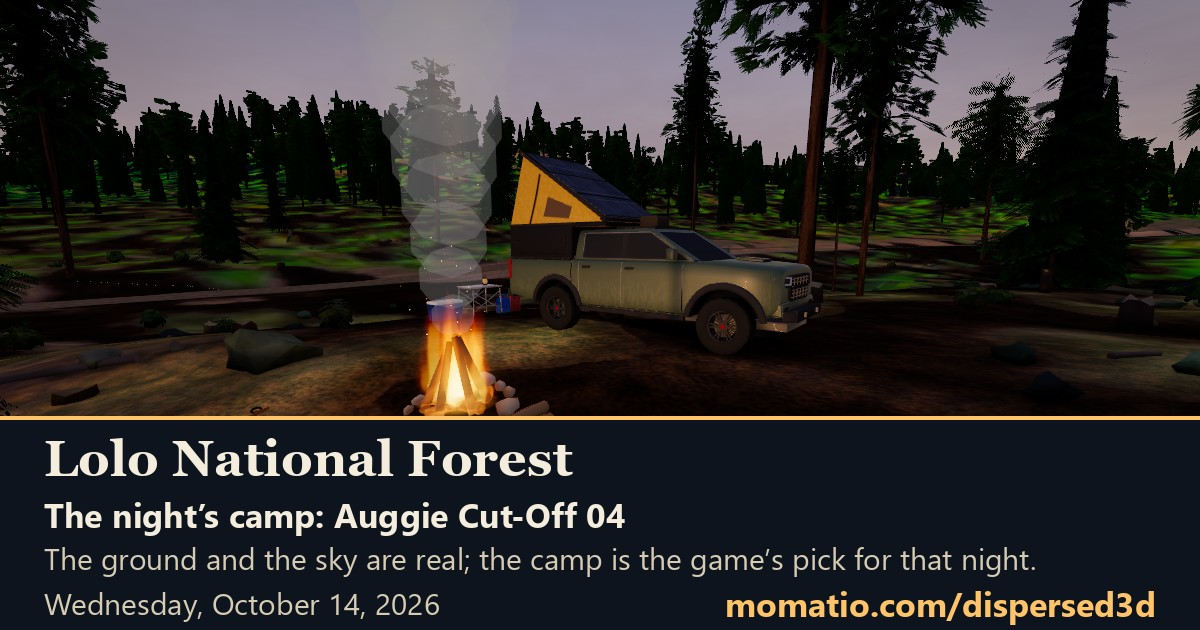
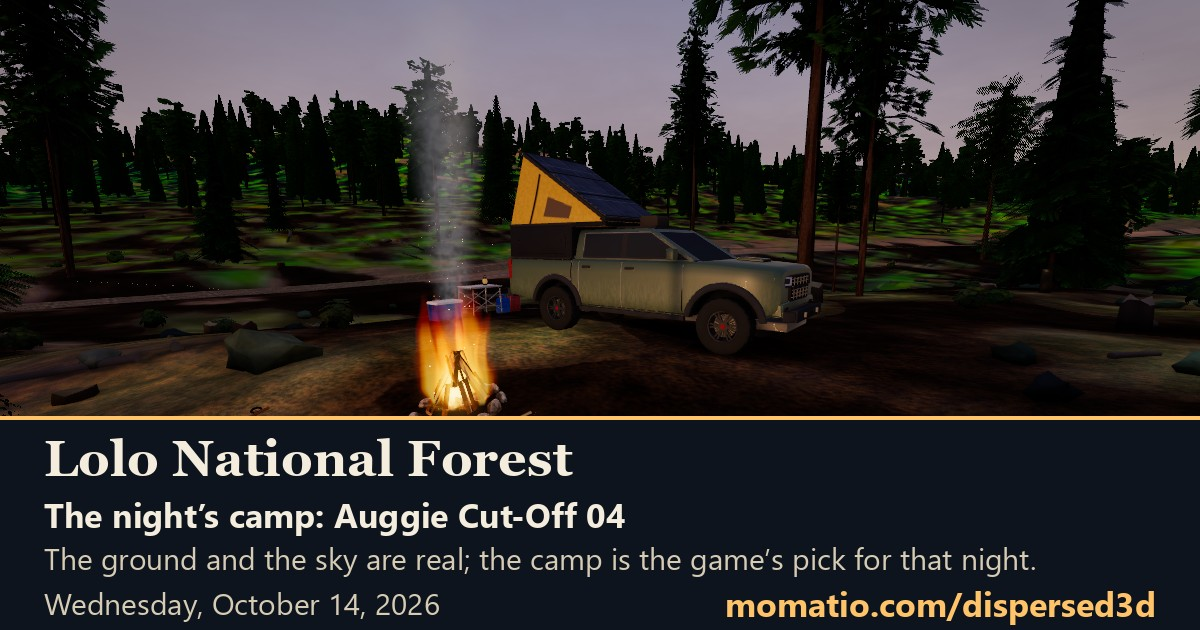
Release 2026-10-14c: steering that keeps turning, real fire rings and a smoother first visit
Claude-Session: https://claude.ai/code/session_01JJzT1DsoBWtYVWVcn1Rthj

diff --git a/README.md b/README.md
@@ -32,15 +32,14 @@ This is a game laid over real places, and the real places do most of the work. H
 
 ## What's new
 
-**October 14, 2026, afternoon: Bark up close, real road surfaces, gear shadows and the elk at dusk**
+**October 14, 2026, evening: Steering that keeps turning, real fire rings and a smoother first visit**
 
-- Up close the ground and the trees are real materials: bark and needles you can see, and a road whose record names its surface now wears it (gravel, native dirt or asphalt, from photographed materials) instead of one plain band
-- The truck, the tent and the camp gear cast real shadows near the rig, and take them
-- The bull elk at dusk, in the three Montana forests that have elk
-- The best dark night of the next seven, named on the title and the morning card: the cloud is the Weather Service's sky cover, the Moon times are the game's own arithmetic. Your first evening is told in order, once
-- See this spot for real: the game's view beside the USGS aerial photo. The Season Book's real trip prints, with links to each night's real forecast and town, and Plan the real trip opens davelalande.com/trip with the camps you slept at
-- Every REAL badge is a link to its source on the What is real page, which now uses davelalande.com's own words for the five sources both share
-- A lighter first visit: the graphics engine now loads as one compact file, about 490 KB less to download, and momatio's menu sits at the top of the game's own pages
+- A, D and the arrow keys (and the stick, sideways) now turn the rig for as long as you hold them, at the rate a rig turns, and the view turns with the cab. Before, a held key stopped turning after about 34 degrees
+- The campfire: a ring of real stones at a dispersed site, and the Forest Service steel ring with its grate where the camp's record says it is a fee campground; split firewood with bark that chars as it burns down, a cracked bed of glowing coals, and soft wisps of smoke that drift with the forecast wind
+- A smoother drive: the first time you drive in among the trees a phone no longer stops for a second, and the game's warm-up now prepares the pictures the frame really draws
+- A first visit opens on a forest that is open today, starts you on a mapped road near the first camp, highlights one camp to drive to, waits until you have stopped before opening the camp card (which then says You are here), and keeps the level card's button on the screen
+- The Fire button on foot turns you to face the fire and keeps it centred
+- Sharper ground and road surfaces seen at a slant, and the page itself is about 480 KB smaller to download (the notes and spacing in the game’s own code are taken out when it is built)
 
 [Every release, in the changelog](https://github.com/davelalande/dispersed3d-progress/blob/main/CHANGELOG.md)
 

diff --git a/CHANGELOG.md b/CHANGELOG.md
@@ -2,6 +2,15 @@
 
 Every release of the live game, newest first. Play it at **[momatio.com/dispersed3d](https://momatio.com/dispersed3d/)**.
 
+## October 14, 2026, evening: Steering that keeps turning, real fire rings and a smoother first visit
+
+- A, D and the arrow keys (and the stick, sideways) now turn the rig for as long as you hold them, at the rate a rig turns, and the view turns with the cab. Before, a held key stopped turning after about 34 degrees
+- The campfire: a ring of real stones at a dispersed site, and the Forest Service steel ring with its grate where the camp's record says it is a fee campground; split firewood with bark that chars as it burns down, a cracked bed of glowing coals, and soft wisps of smoke that drift with the forecast wind
+- A smoother drive: the first time you drive in among the trees a phone no longer stops for a second, and the game's warm-up now prepares the pictures the frame really draws
+- A first visit opens on a forest that is open today, starts you on a mapped road near the first camp, highlights one camp to drive to, waits until you have stopped before opening the camp card (which then says You are here), and keeps the level card's button on the screen
+- The Fire button on foot turns you to face the fire and keeps it centred
+- Sharper ground and road surfaces seen at a slant, and the page itself is about 480 KB smaller to download (the notes and spacing in the game’s own code are taken out when it is built)
+
 ## October 14, 2026, afternoon: Bark up close, real road surfaces, gear shadows and the elk at dusk
 
 - Up close the ground and the trees are real materials: bark and needles you can see, and a road whose record names its surface now wears it (gravel, native dirt or asphalt, from photographed materials) instead of one plain band
